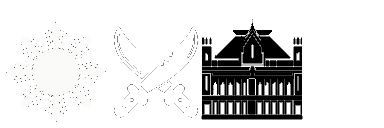
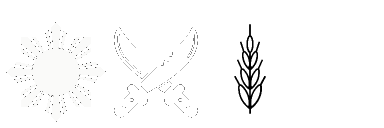
game mechanics changed

Changed region(s): [[0.5, 0.1875, 0.8125, 0.9375]]

diff --git a/README.md b/README.md
@@ -10,12 +10,12 @@ Title: Supreme Leader of the Katipunan
 
 #### Unique Bonus: Sovereign Tagalog Nation
 
-+1 Production from Farm, +20% Food Bonus from Palace
++1 Production from Farm
 
-#### Unique Building: Malacanang Palace
+#### Unique Building: International Rice Research Institute
 
-Gives additional 2 happiness and 3 culture compared to the Palace.
-However, this removes the initial 2 city strength. 
+Unlocked on Education. Requires University.
++10% food,+10% Science, and +2 Science from every Farm.
 
 #### Unique Unit: Katipunero
 
